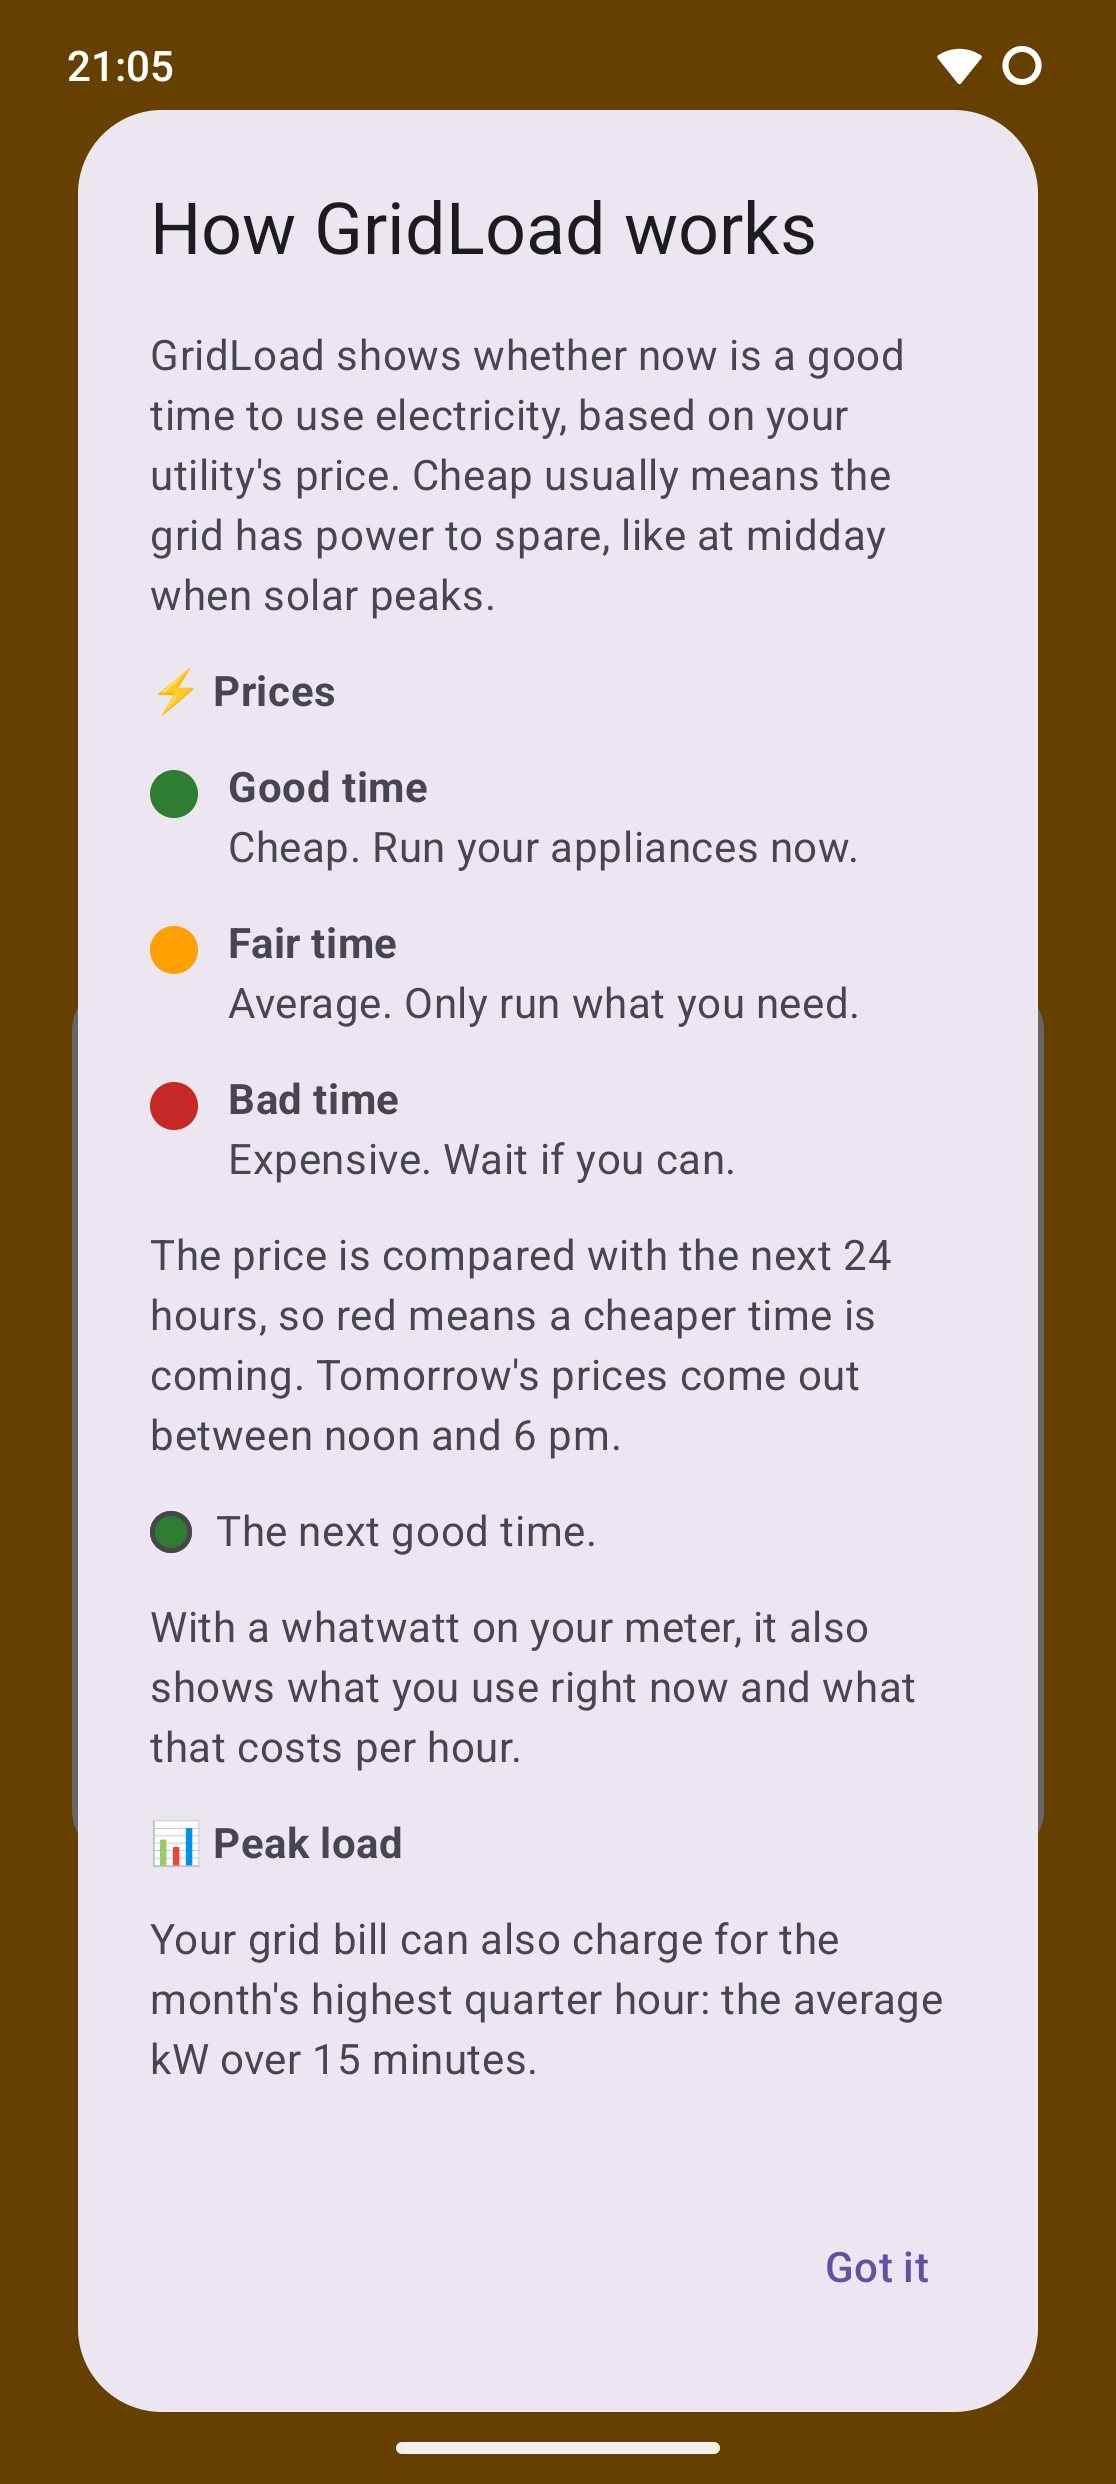
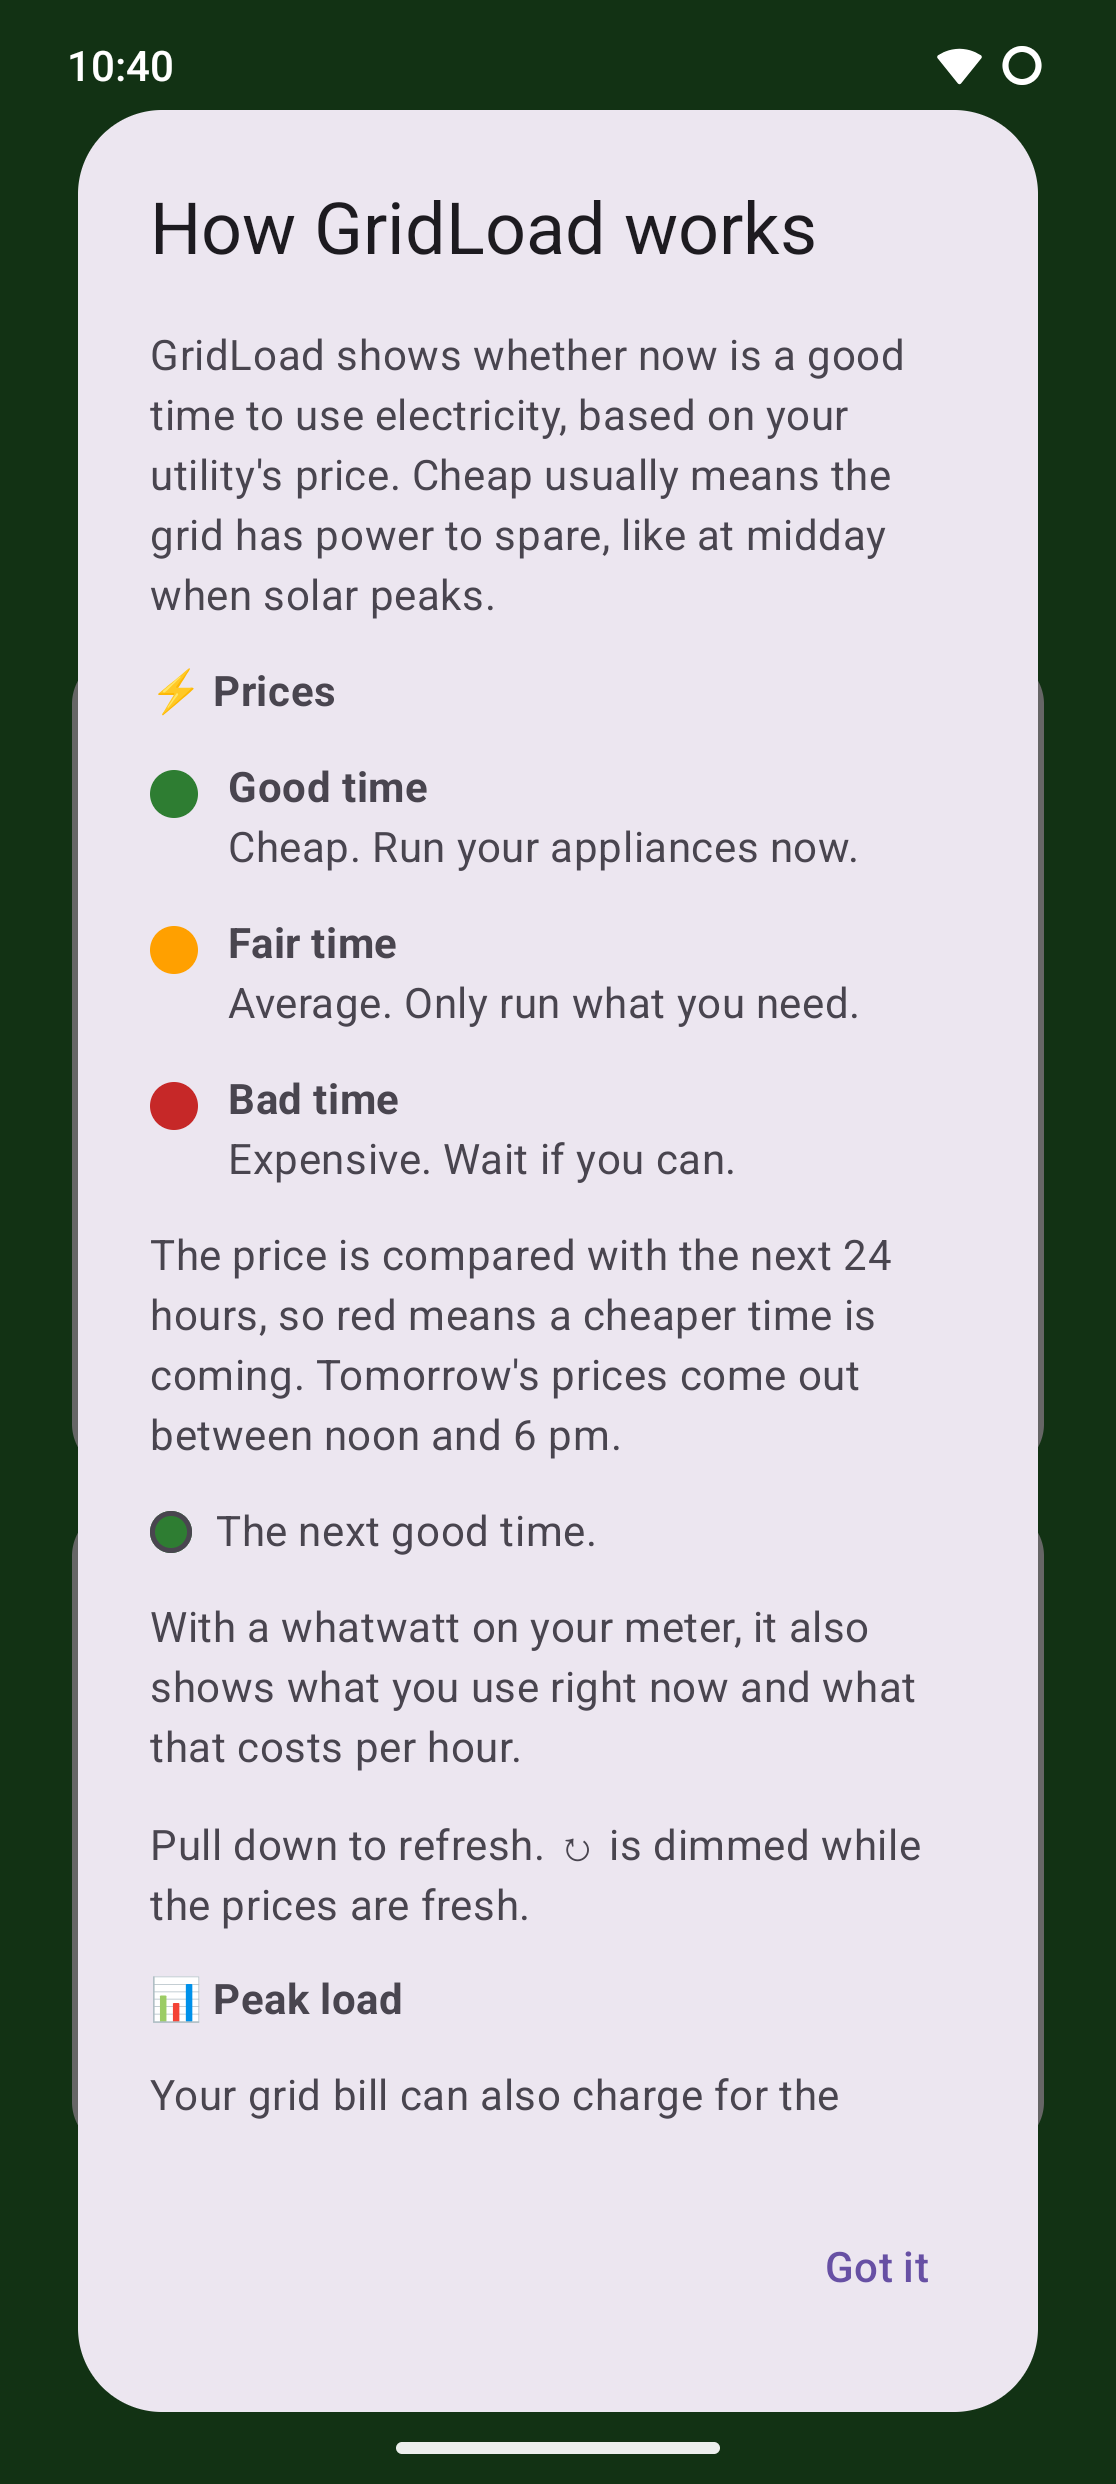
History colours, new store screenshots, draft changelog 11
- History: the month's highest day red, today dark, the rest grey
- Store screenshots retaken: main screen with both panels and the
  "Updated ↻" line, the help, Settings with Country and power unit
  (declutter 2.2)
- changelogs/11.txt for the next release

diff --git a/app/src/main/kotlin/io/github/buerlino/gridload/HistoryPanel.kt b/app/src/main/kotlin/io/github/buerlino/gridload/HistoryPanel.kt
@@ -26,7 +26,8 @@ import java.time.ZoneId
 /**
  * The month so far, below the peak window: its header names the month's highest quarter hour
  * and when it was; open, one bar per day (that day's highest), with the month's highest and the
- * goal across them. Days before the recorder started, or still to come, have no bar.
+ * goal across them. The day of the month's highest is red, today dark. Days before the recorder
+ * started, or still to come, have no bar.
  */
 @Composable
 fun HistoryPanel(state: UiState, onToggle: () -> Unit) {
@@ -52,11 +53,12 @@ fun HistoryPanel(state: UiState, onToggle: () -> Unit) {
     }
 }
 
-/** One bar per day of this month, the month's highest in the dark colour and labelled. */
+/** One bar per day of this month: the month's highest in red (its line labelled), today dark, the rest grey. */
 @Composable
 private fun DayBars(days: List<Pair<LocalDate, Quarter>>, highest: Quarter, goal: Double?, unit: PowerUnit) {
     val measurer = rememberTextMeasurer()
-    val month = YearMonth.now(TARIFF_ZONE)
+    val today = LocalDate.now(TARIFF_ZONE)
+    val month = YearMonth.from(today)
     Canvas(Modifier.fillMaxWidth().height(150.dp)) {
         val bottom = size.height - 18.dp.toPx()
         val axis = Axis(measurer, unit, maxOf(goal ?: 0.0, highest.kw), 16.dp.toPx(), bottom, 6.dp.toPx())
@@ -77,7 +79,12 @@ private fun DayBars(days: List<Pair<LocalDate, Quarter>>, highest: Quarter, goal
         }
         for ((day, quarter) in days) {
             val barTop = axis.y(quarter.kw)
-            drawRect(if (quarter == highest) BAR else PAST_BAR, Offset(x(day.dayOfMonth), barTop), Size(barW, bottom - barTop))
+            val color = when {
+                quarter == highest -> RED
+                day == today -> BAR
+                else -> PAST_BAR
+            }
+            drawRect(color, Offset(x(day.dayOfMonth), barTop), Size(barW, bottom - barTop))
         }
         drawLines(axis, highest.kw, goal, linesEnd)
         drawLabels(listOfNotNull(axis.y(highest.kw) to highestLabel, goalLabel), labelX)

diff --git a/CLAUDE.md b/CLAUDE.md
@@ -166,7 +166,7 @@ Built step by step, as the user decides. Released in v0.7.0 (phases 1 to 3) and 
 
 ### History
 
-A panel below the peak window (user, 2026-10-03: "start and we will see if it's good"), also from the recorder's copied files, so it's complete on open. First version: one bar per day of this month, that day's highest quarter hour, with the month's highest (solid) and the goal (dashed) across them, as in the peak window. Collapsed header: the month's highest and when it happened ("Highest 4.2 kW · 2 Oct 18:30"); before anything is recorded, "No quarter hours recorded yet". Days before the recorder started, and today's remaining hours, have no bar.
+A panel below the peak window (user, 2026-10-03: "start and we will see if it's good"), also from the recorder's copied files, so it's complete on open. First version: one bar per day of this month, that day's highest quarter hour, with the month's highest (solid) and the goal (dashed) across them, as in the peak window. The day of the month's highest is red, today dark, the other days grey (user, 2026-10-03). The bars are thin; no tap-for-value (too thin to hit). Collapsed header: the month's highest and when it happened ("Highest 4.2 kW · 2 Oct 18:30"); before anything is recorded, "No quarter hours recorded yet". Days before the recorder started, and today's remaining hours, have no bar.
 - Ideas accepted (user, 2026-10-02): the alarm warns of a **new monthly peak**, not a price bracket, so it works with any linear tariff; **"kW free"** as the main number; **the quarter-hour countdown** (waiting a few minutes before the kettle or oven often avoids a peak).
 
 ### Recording while away

diff --git a/.claude/skills/build-gridload-android/declutter.md b/.claude/skills/build-gridload-android/declutter.md
@@ -168,8 +168,8 @@ deprecation is still a plugin's. No leftovers of the dropped scale switch or `ro
   Extract a shared `drawAxis` and `lineLabel` while the history chart is reworked; the shared
   panel pieces (`Panel`, colours, `tickLabel`, `drawLabels`) could then move from
   `PeakWindow.kt` to a small `Charts.kt`.
-- [ ] 2.2 Store screenshots show the Refresh button and the old peak window: retake before the
-  next release.
+- [x] 2.2 Store screenshots show the Refresh button and the old peak window: retake before the
+  next release. Done 2026-10-03: all three retaken (main screen with both panels, help, Settings).
 - Done 2.1: `Charts.kt` holds `Panel`, the colours, `SMALL`, `Axis` (ticks, unit, axis lines,
   `y()`), `drawLines`, `lineLabel` and `drawLabels` (which now sorts by itself); `tickLabel` is
   folded into `Axis`. The history's highest line is now 2.5 dp like the peak window's (was 2).

diff --git a/.claude/skills/build-gridload-android/SKILL.md b/.claude/skills/build-gridload-android/SKILL.md
@@ -177,7 +177,8 @@ W, recorder details, first start with the SIM's country. Seen on the phone too (
 after Measurement.
 
 History chart (user, 2026-10-03): the thin bars are fine for now; no tap-for-value (too thin to
-hit). The dark bar marks the month's highest, which is today's so far.
+hit). The month's highest day red, today dark (only seen with today as the highest so far).
+Open: a full-screen view of the chart on tap (the user's idea; its content to be decided).
 
 Later: the appliance calculator (design with the user first, see `CLAUDE.md`).
 
